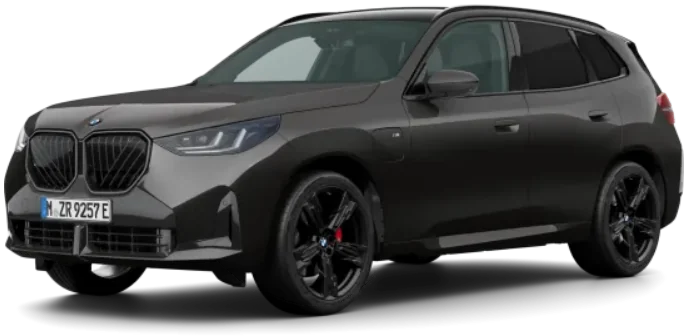
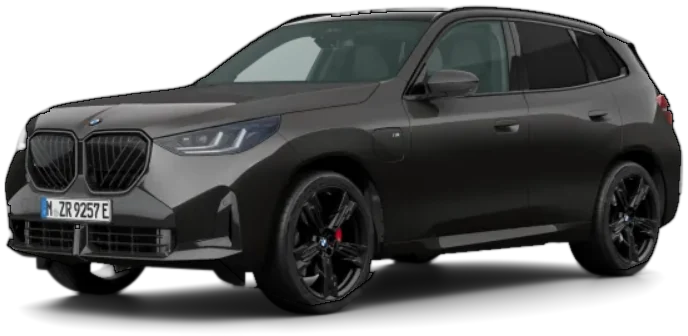
Autofoto: geen witte rand meer in donker
De lichte rand (drop-shadow) om de foto in donker is weg, en de uitsnede zelf is bijgewerkt:
de buitenste pixels zijn een pixel naar binnen gelegd en nooit lichter dan hun donkerste buur,
en losse lichte stukjes van de studiovloer onder de bumper zijn doorzichtig gemaakt.

diff --git a/app/web/style.css b/app/web/style.css
@@ -551,13 +551,11 @@ main { padding: 0 24px 32px; width: 100%; max-width: 1360px; outline: none; }
   content: ""; position: absolute; inset: 14% 4% 2%; border-radius: 50%;
   background: radial-gradient(closest-side, rgb(56 189 248 / 0.22), transparent); filter: blur(10px);
 }
-:root[data-theme="donker"] .auto-foto img { filter: drop-shadow(0 0 1px rgb(175 187 212 / 0.4)); }
 @media (prefers-color-scheme: dark) {
   :root:not([data-theme="licht"]) .auto-foto::before {
     content: ""; position: absolute; inset: 14% 4% 2%; border-radius: 50%;
     background: radial-gradient(closest-side, rgb(56 189 248 / 0.22), transparent); filter: blur(10px);
   }
-  :root:not([data-theme="licht"]) .auto-foto img { filter: drop-shadow(0 0 1px rgb(175 187 212 / 0.4)); }
 }
 @media (max-width: 599px) {
   .auto-held { grid-template-columns: minmax(0, 1fr); }
